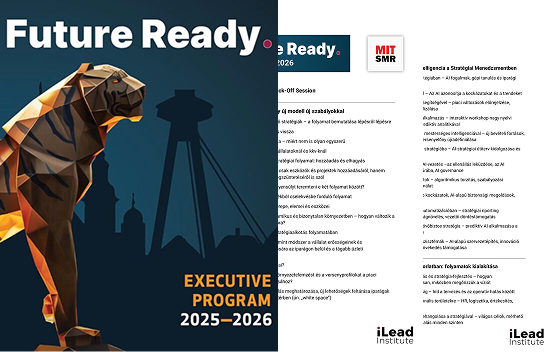
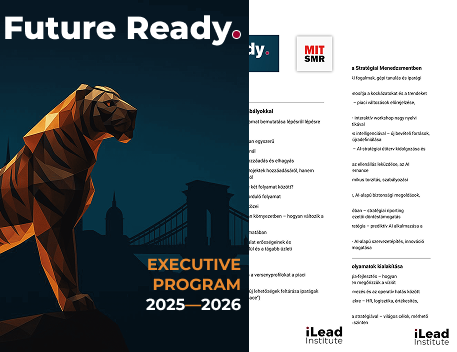
Update images

diff --git a/components/program/ProgramTopicsSection.tsx b/components/program/ProgramTopicsSection.tsx
@@ -138,7 +138,7 @@ export default function ProgramTopicsSection() {
                   {/* Background Image */}
                   <div className="absolute inset-0">
                     <Image
-                      src="/hero-bg.jpg"
+                      src="/tiger_bp.jpeg"
                       alt="Program background"
                       fill
                       className="object-cover"

diff --git a/components/home/CTACardsSection.tsx b/components/home/CTACardsSection.tsx
@@ -13,7 +13,7 @@ export default function CTACardsSection() {
           >
             <div className="relative w-full aspect-[4/3]">
               <Image
-                src="/program-image.jpeg"
+                src="/program-image.png"
                 alt="Be Future Ready Executive Program"
                 fill
                 className="object-cover object-top"

diff --git a/components/subscription/ProgramCTASection.tsx b/components/subscription/ProgramCTASection.tsx
@@ -12,7 +12,7 @@ export default function ProgramCTASection() {
         >
           <div className="relative w-full aspect-[4/3]">
             <Image
-              src="/program-image.jpeg"
+              src="/program-image.png"
               alt="Be Future Ready Executive Program"
               fill
               className="object-cover object-top"

diff --git a/components/home/HeroSection.tsx b/components/home/HeroSection.tsx
@@ -9,7 +9,7 @@ export default function HeroSection() {
         {/* --- BACKGROUND IMAGE LAYER --- */}
         <div className="absolute inset-0 z-0">
           <Image
-              src="/hero-bg.jpg"
+              src="/tiger_bp_rgb.png"
               alt="Background"
               fill
               priority
